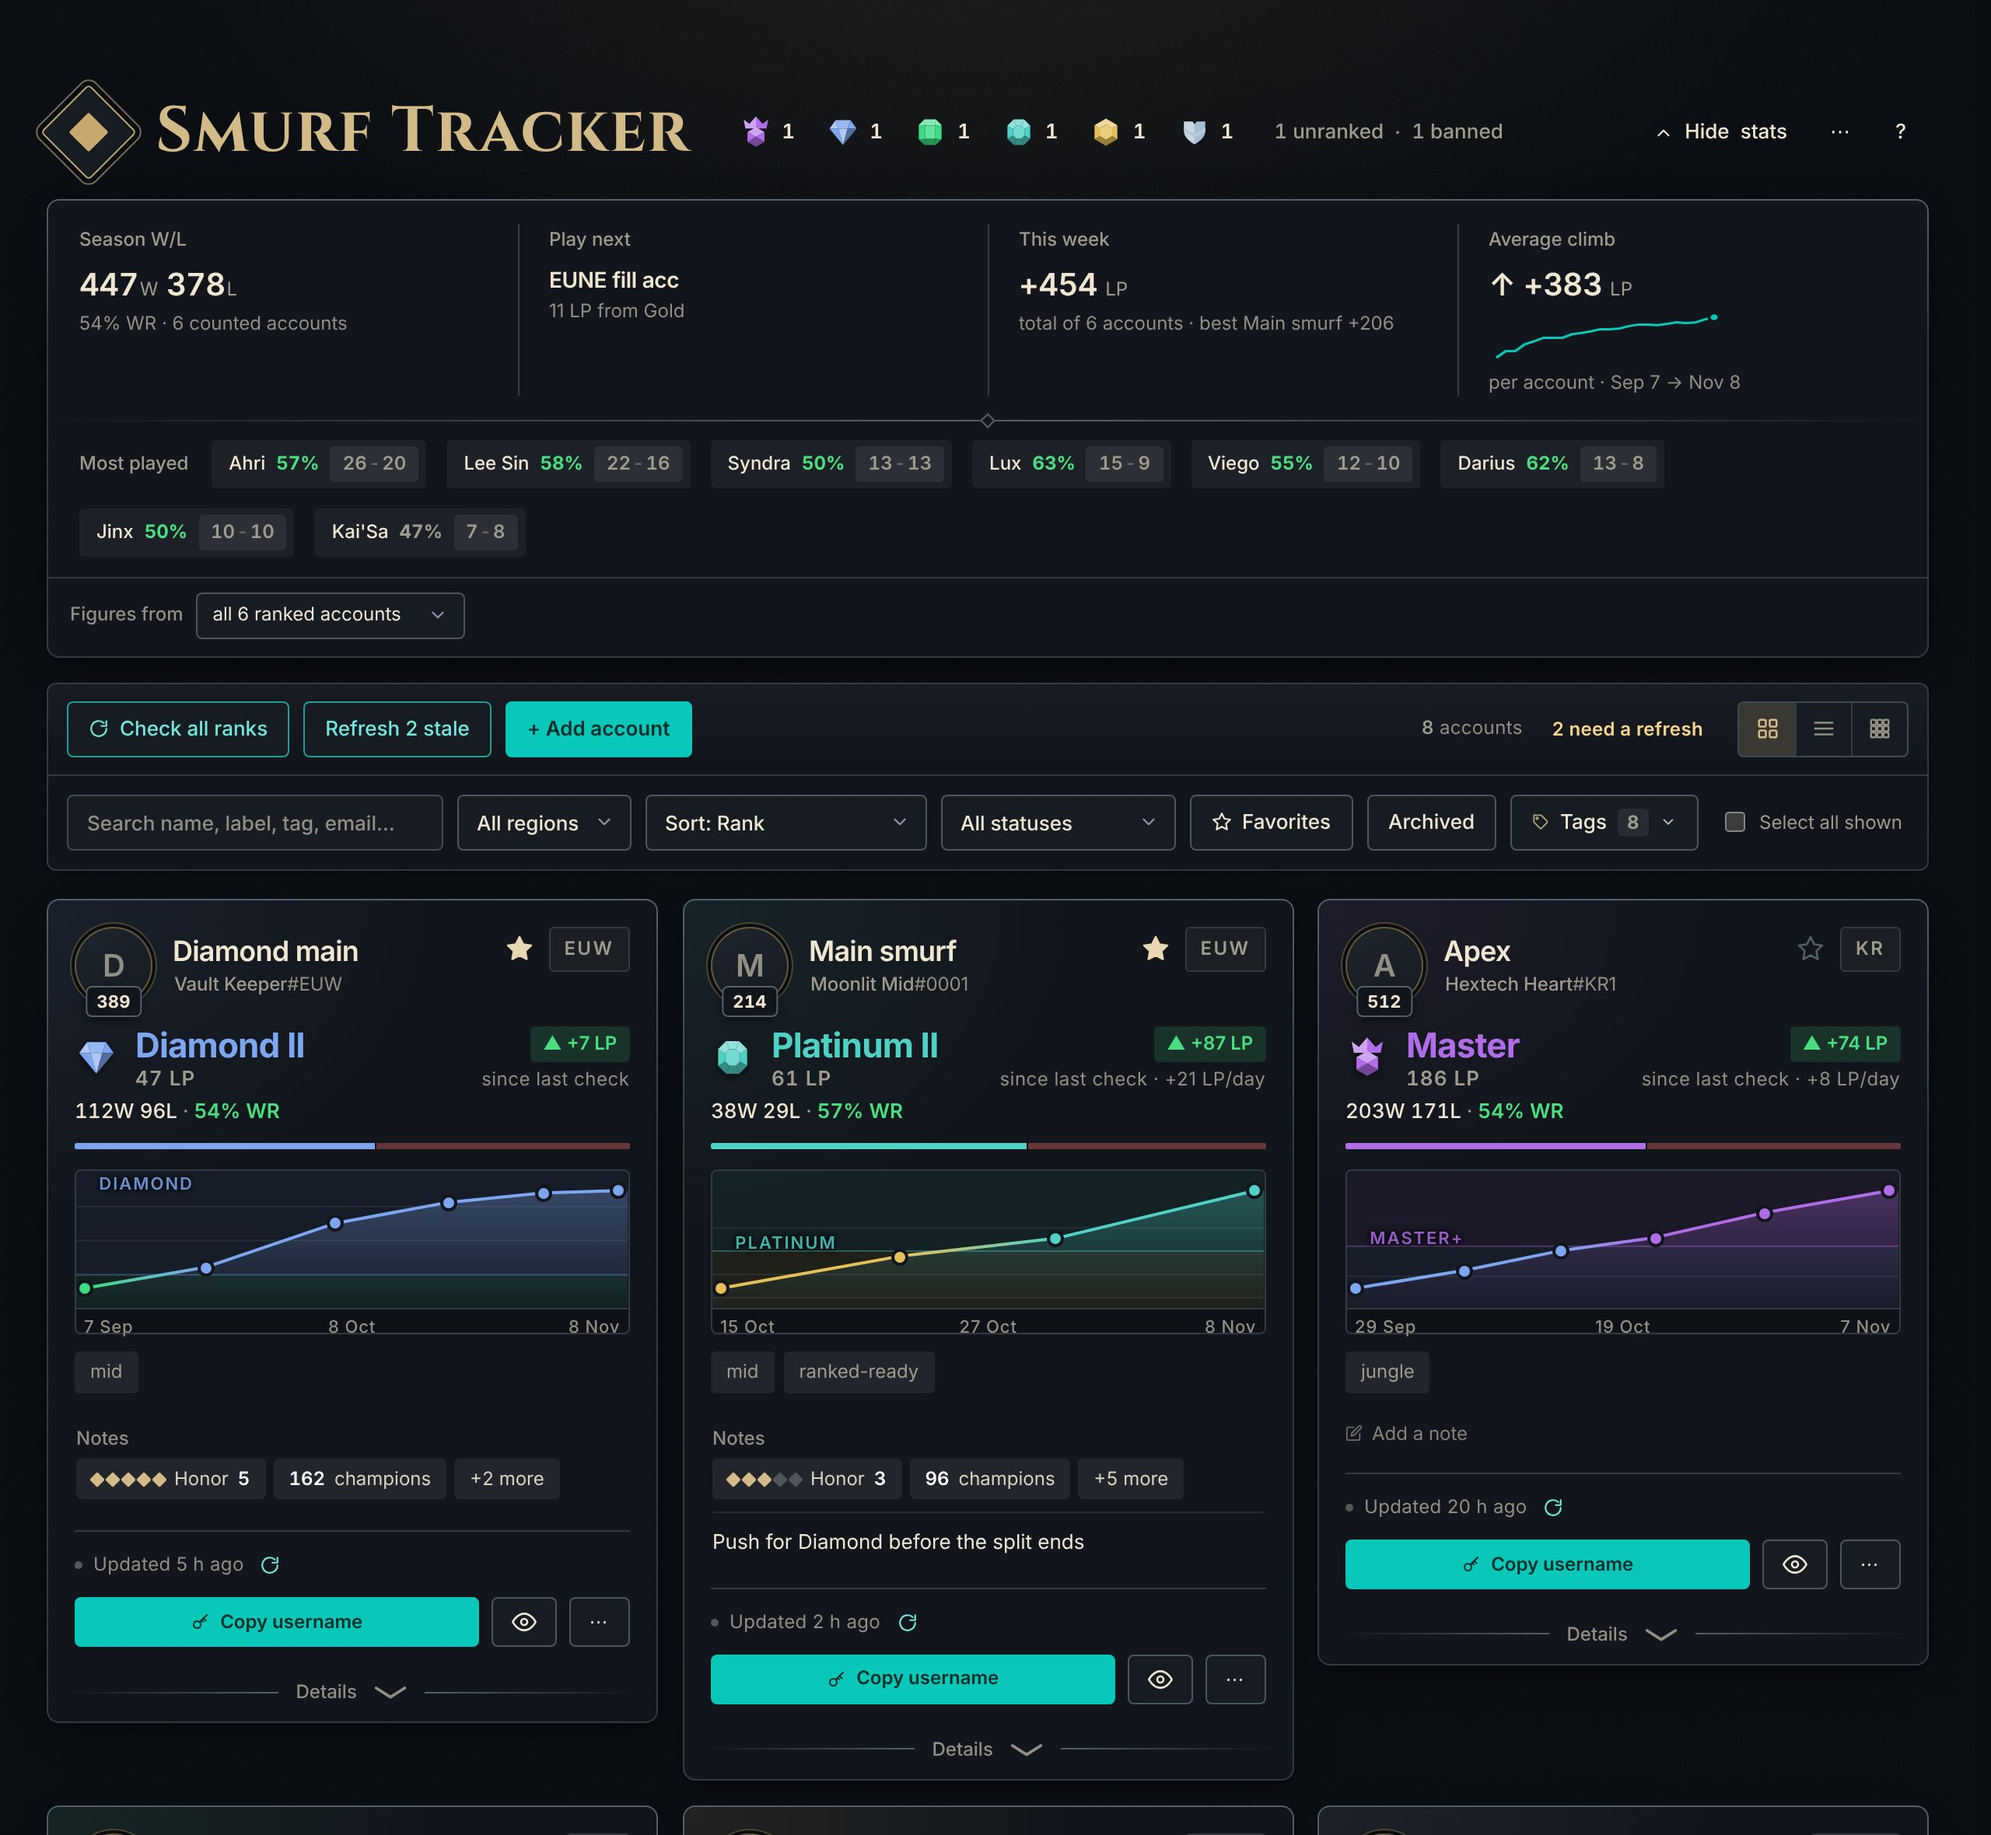
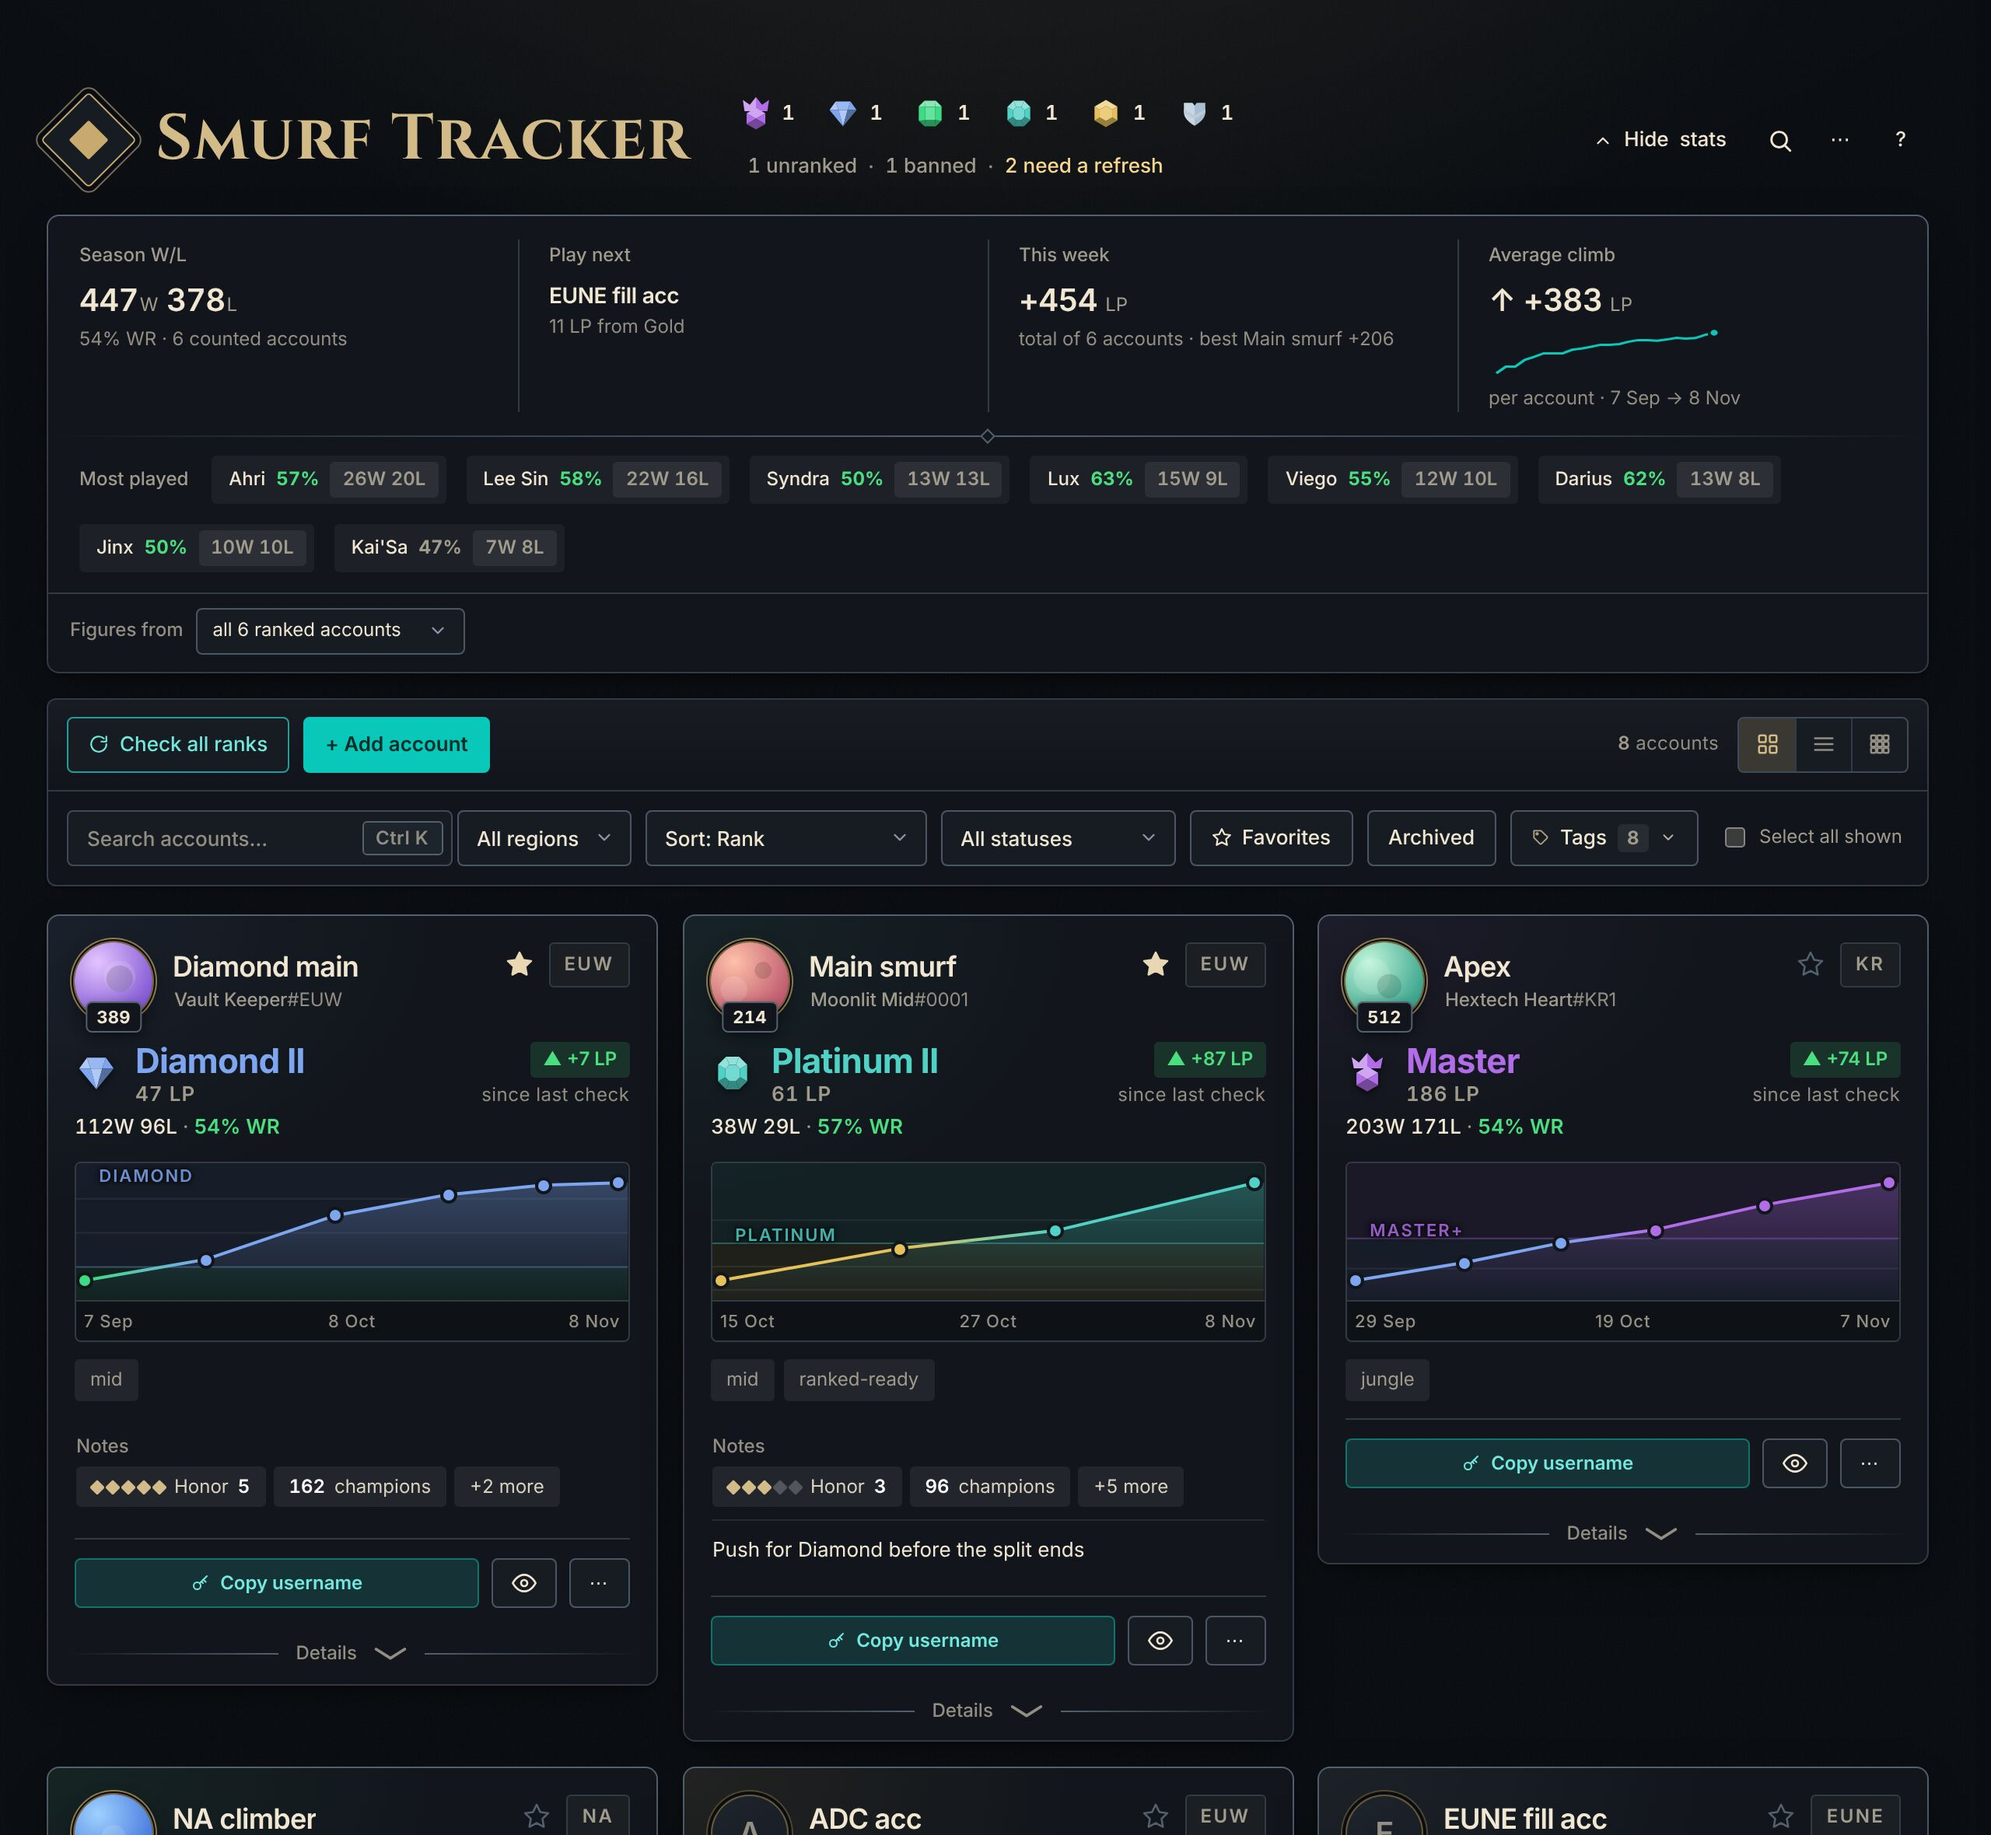
Release 2.26.1: phone status line, new-account scroll, fresh preview image (#51)
* The header's status words wrap on a phone instead of widening the page

With four states at once ("1 unranked · 1 never checked · 1 banned · 2 need a
refresh") the status line was one unbroken 403px line, and a phone's page grew
to 427px to hold it: cut off on a 390px phone, everything at about 75% on a 320px
one. The words wrap onto a second line now. It began when "need a refresh" moved
into the header.

Claude-Session: https://claude.ai/code/session_01NnamgZLnB9R1eN7rPhoByV

* A new account is scrolled to, not only lit up

The card glowed about 2,300px down while the page stayed at the top. Three things
pulled it back: the scroll ran while the form was still closing, with the page
locked; stepping back off the form's history entry made the browser restore the
old scroll position; and handing focus back to "+ Add account" scrolled to it.
The scroll now waits until the form has gone, scroll restoration is manual (the
history entries are only for windows, which never move the page; a reload now
starts at the top), and focus goes back without scrolling. Checked in Chromium
with real clicks on desktop and phone; Bulk add is covered by the test.

Claude-Session: https://claude.ai/code/session_01NnamgZLnB9R1eN7rPhoByV

* A banned row's copy keys step back, like the banned card's Login

The card mutes Login on a banned account; its list row still showed both copy keys
at full strength. They are faint there now and come back on hover. They stay,
[…]

diff --git a/app.js b/app.js
@@ -110,8 +110,13 @@ const STATUS={active:{label:"Active",short:"Active",color:"#3ddc84"},resting:{la
 
 // ---------- state ----------
 let accounts=[];
-const APP_VERSION="2.26.0";
+const APP_VERSION="2.26.1";
 const APP_CHANGELOG=[
+  {v:"2.26.1",items:[
+    "On a phone, the header's status line wraps instead of making the whole page wider",
+    "A new account is scrolled into view, not only lit up",
+    "A banned account's copy buttons are muted in the list, Quick find leaves out key hints on touch screens, and tags say \"+5 more\" like the notes",
+  ]},
   {v:"2.26.0",items:[
     "Calmer cards: no win bar under the win rate, no \"Updated\" line until a rank is a day old, no empty note prompts, and tags on one row",
     "Refresh rank and Add note are in each card's ⋯ menu, and the LP-per-day pace is on the chart's newest point",
@@ -6698,7 +6703,8 @@ function fitTags(root){
     more.type="button";more.className="ct-more";more.dataset.act="info";more.title="Show every tag in Details";
     row.appendChild(more);
     let n=Math.max(1,cut);
-    const show=()=>{chips.forEach((c,i)=>{c.hidden=i>=n});more.textContent="+"+(chips.length-n)};
+    // "+5 more", worded like the note chips' count beside it
+    const show=()=>{chips.forEach((c,i)=>{c.hidden=i>=n});more.textContent="+"+(chips.length-n)+" more"};
     show();
     while(n>1&&out(more)){n--;show()}
   }
@@ -7407,6 +7413,11 @@ function openModals(){return MODALS.map($).filter(el=>el&&!el.classList.contains
    another that opens before the browser has carried out the step back left a
    flag saying "there is an entry" over an entry that was already gone. */
 let backSkip=false;
+/* Each window takes a history entry, and closing it steps back off that entry. On
+   that step the browser put the page back where it had been when the window opened:
+   after Add account, at the top, while the new account's card was being scrolled to.
+   Windows never move the page, so there is nothing for the browser to restore. */
+try{if("scrollRestoration" in history)history.scrollRestoration="manual"}catch(e){}
 function onWindowEntry(){try{return !!(history.state&&history.state.smurfWindow)}catch(e){return false}}
 function syncBackStep(open){
   if(snapMode||backSkip)return;   // our own step back is on its way; popstate settles it
@@ -7456,7 +7467,8 @@ function syncModals(){
     const back=modalReturn.isConnected
       ?(modalReturn.closest("#moreMenu")?$("bMore"):modalReturn)
       :null;
-    try{if(back)back.focus()}catch(e){}
+    // without scrolling: the page may have moved on (to a new account) meanwhile
+    try{if(back)back.focus({preventScroll:true})}catch(e){}
     modalReturn=null;
   }
 }
@@ -8304,8 +8316,14 @@ function revealAccount(id,clear){
   const a=accounts.find(x=>x.id===id);if(!a)return;
   if(clear||!filtered().some(x=>x.id===id))clearFilters(a);
   flashId=id;render();
-  const el=$("grid").querySelector(`[data-id="${idSel(id)}"]`);
-  if(el&&el.scrollIntoView)el.scrollIntoView({block:"center",behavior:prefersReducedMotion()?"auto":"smooth"});
+  /* Lit up but never reached: this ran while the form that added the account was
+     still closing, with the page locked against scrolling, and the focus handed
+     back to "+ Add account" just after pulled the page back up to it. The scroll
+     waits until that window is gone. */
+  setTimeout(()=>{
+    const el=$("grid").querySelector(`[data-id="${idSel(id)}"]`);
+    if(el&&el.scrollIntoView)el.scrollIntoView({block:"center",behavior:prefersReducedMotion()?"auto":"smooth"});
+  },0);
   setTimeout(()=>{if(flashId===id){flashId=null;renderCard(id)}},1600);
 }
 $("palInput").addEventListener("input",()=>{palSel=0;renderPalette()});

diff --git a/app.css b/app.css
@@ -253,7 +253,9 @@
   /* while one is the filter, the others step back */
   .rib-row:has(.rib-i.on) .rib-i:not(.on){opacity:.55}
   .rib-row:has(.rib-i.on) .rib-i:not(.on):hover{opacity:1}
-  .rib-states{display:inline-flex;align-items:center;margin-left:8px}
+  /* wraps: with four states at once ("1 unranked · 1 never checked · 1 banned ·
+     2 need a refresh") one unbroken line was 403px, and a phone's page grew to fit it */
+  .rib-states{display:inline-flex;align-items:center;flex-wrap:wrap;row-gap:2px;min-width:0;max-width:100%;margin-left:8px}
   .rib-s{color:var(--muted);padding:0 6px}
   .rib-s.rib-stale{color:var(--warn-txt)}   /* amber, as the card's own out-of-date line */
   .rib-dot{font-style:normal;color:var(--faint)}
@@ -930,6 +932,10 @@
      the strikethrough say it; the rail is gone, and Login is a plain button. */
   .card.dead .a-login{background-color:var(--panel2);border-color:var(--btn-edge);color:var(--muted);font-weight:600}
   .card.dead .a-login:hover{color:var(--text)}
+  /* the list's copy keys step back on a banned row the way the card's Login does:
+     still there (a login is wanted for an appeal), no longer an invitation */
+  .rw.dead .rw-key{color:var(--faint);opacity:.6}
+  .rw.dead .rw-key:hover{color:var(--text);opacity:1}
   .card.dead .rk-crest,.rw.dead .rw-crest{filter:grayscale(.9);opacity:.55}
   .card.dead .rk .rk-t,.rw.dead .rw-rank b{text-decoration:line-through;
     text-decoration-thickness:1.5px;text-decoration-color:currentColor;opacity:.62}
@@ -2664,6 +2670,7 @@
     .lpc-range button{height:30px;padding:0 9px}
     .lpc-axis{height:32px}   /* room for them in the date row */
     .tools>.t-kbd{display:none}.tools>#tSearch:placeholder-shown{padding-right:12px}   /* no Ctrl on a touch screen */
+    .pal-f{display:none}   /* nor arrow keys, Enter or Esc: Quick find's key hints mean nothing there */
     .rid{padding-block:5px;margin-block:-3px}
     .c-notes.blank>button,.c-notes.blank .nf-link{min-height:30px} /* matches the all:unset rule it has to beat */
   }

diff --git a/index.html b/index.html
@@ -22,7 +22,7 @@
 <meta property="og:title" content="Smurf Tracker: every League account in one place">
 <meta property="og:description" content="Ranks, LP history and logins for all your League of Legends accounts. Free, no sign-up, runs in your browser.">
 <meta property="og:url" content="https://smurf-tracker.pages.dev/">
-<meta property="og:image" content="https://smurf-tracker.pages.dev/icons/social.jpg?v=2">
+<meta property="og:image" content="https://smurf-tracker.pages.dev/icons/social.jpg?v=3">
 <meta property="og:image:width" content="1280">
 <meta property="og:image:height" content="640">
 <meta property="og:image:alt" content="Smurf Tracker: account cards with rank crests, LP charts and win rates">
@@ -35,7 +35,7 @@
 <meta name="apple-mobile-web-app-capable" content="yes">
 <meta name="apple-mobile-web-app-status-bar-style" content="black-translucent">
 <link rel="preload" href="fonts/inter-latin.woff2" as="font" type="font/woff2" crossorigin>
-<link rel="stylesheet" href="app.css?v=2.26.0">
+<link rel="stylesheet" href="app.css?v=2.26.1">
 </head>
 <body data-atmosphere="spotlight">
 <!-- A shared snapshot opens here instead of the app: see openSnapshot -->
@@ -869,6 +869,6 @@
   <div id="srSay" class="sr-only" role="status" aria-live="polite"></div>
 </div>
 
-<script src="app.js?v=2.26.0"></script>
+<script src="app.js?v=2.26.1"></script>
 </body>
 </html>

diff --git a/sw.js b/sw.js
@@ -2,7 +2,7 @@
 // (e.g. GitHub Pages) — service workers cannot register on file:// pages, so
 // opening the HTML file directly just skips all of this, which is fine.
 // Bump SW cache so each release reaches hosted installs.
-const CACHE = "smurf-tracker-cache-v115";
+const CACHE = "smurf-tracker-cache-v116";
 // index.html is the shell; "./" was a redundant second cache of the same document.
 // The page loads app.css and app.js as "?v=<version>", so a browser never pairs a
 // new page with last release's script out of its HTTP cache; offline, the copies
